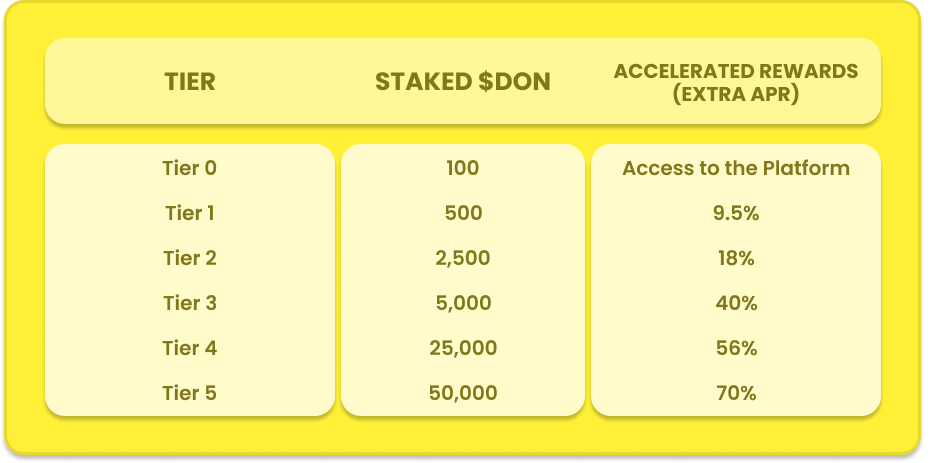
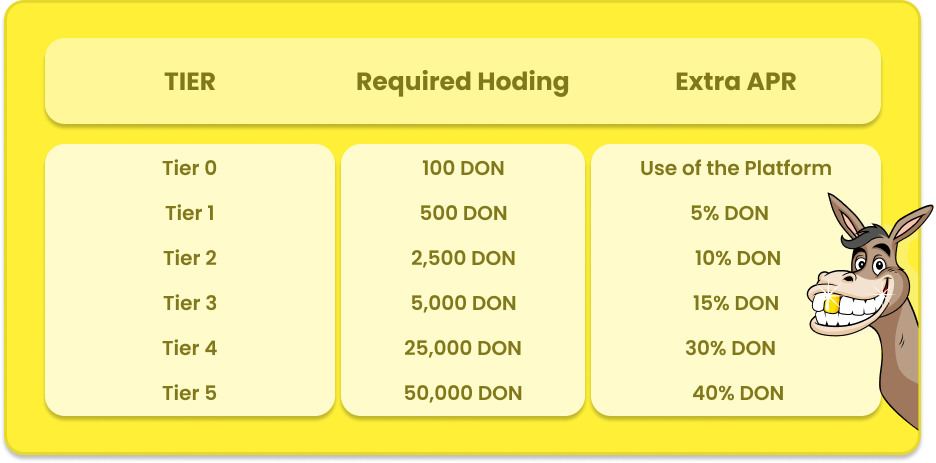
Updated Tiers Info (#467)

diff --git a/donkey-gatsby/src/LandingPage/TiersSection/TiersSection.tsx b/donkey-gatsby/src/LandingPage/TiersSection/TiersSection.tsx
@@ -181,18 +181,18 @@ export const  tiersInfo: ITierSection[] = [
     height: "139px",
     bottom: "34px",
   },
-  { tier: 1, image: teir1, stakedDons: "500", apy: "10%", bottom: "5px" },
+  { tier: 1, image: teir1, stakedDons: "500", apy: "5%", bottom: "5px" },
   {
     tier: 2,
     image: tier2,
     stakedDons: "2,500",
-    apy: "20%",
+    apy: "10%",
     bottom: "10px",
     height: "120px",
   },
-  { tier: 3, image: tier3, stakedDons: "5,000", apy: "40%" },
-  { tier: 4, image: tier4, stakedDons: "25,000", height: "90%", apy: "55%" },
-  { tier: 5, image: tier5, stakedDons: "50,000", apy: "70%" },
+  { tier: 3, image: tier3, stakedDons: "5,000", apy: "15%" },
+  { tier: 4, image: tier4, stakedDons: "25,000", height: "90%", apy: "30%" },
+  { tier: 5, image: tier5, stakedDons: "50,000", apy: "40%" },
 ];
 
 export const TiersSection: React.FC<IProps> = ({
